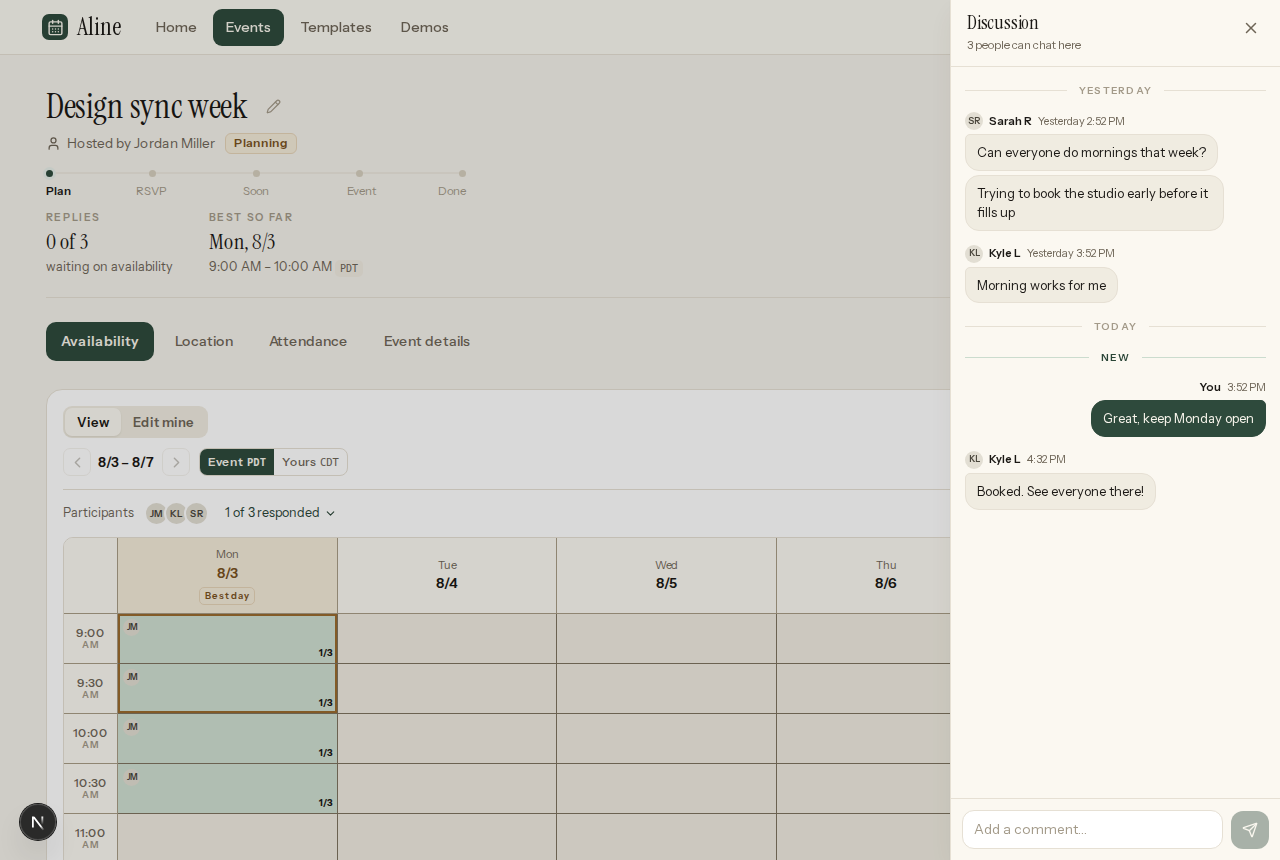
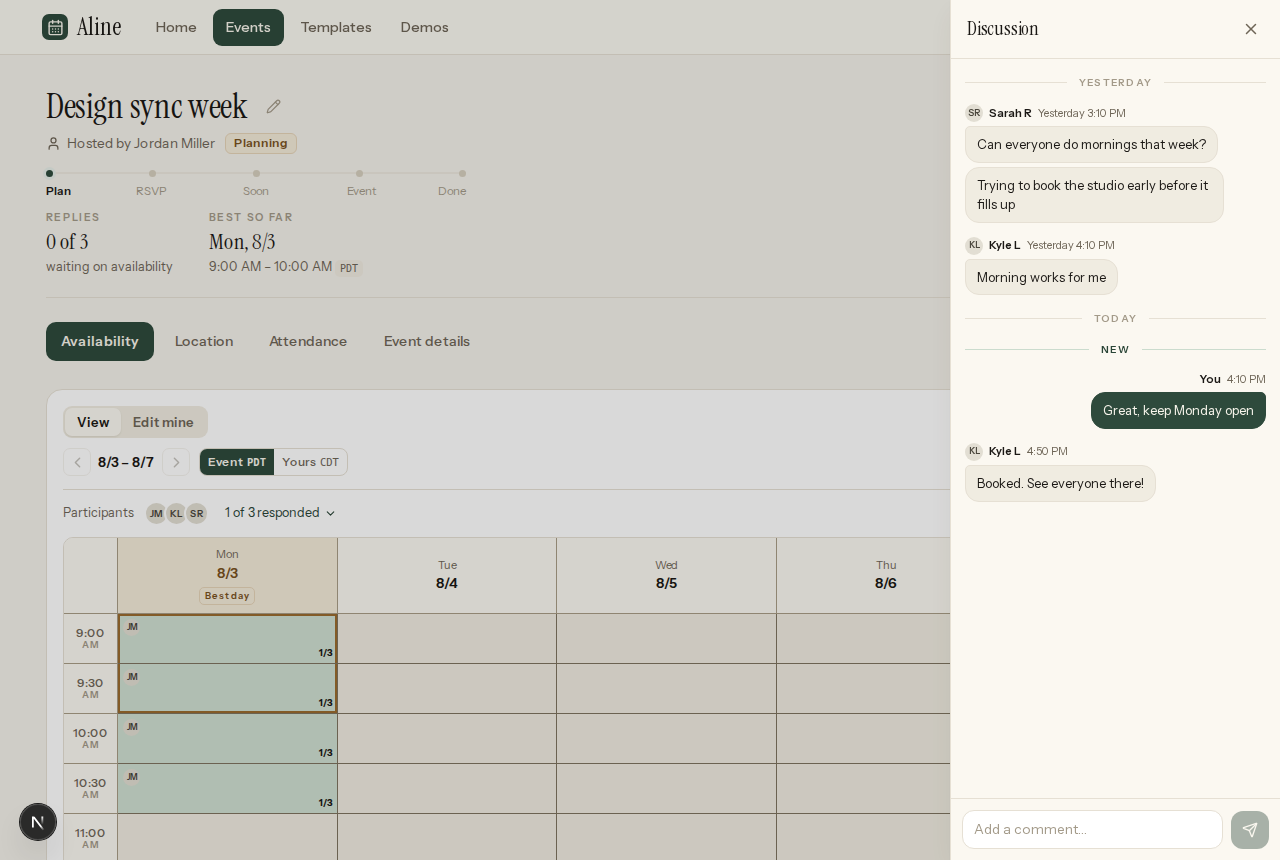
The import preview retires: picking a calendar just fills the grid, a toast counts what landed and offers the way back, and the chat header sheds its headcount caption

diff --git a/src/app/(main)/events/[id]/_components/availability/parts.tsx b/src/app/(main)/events/[id]/_components/availability/parts.tsx
@@ -1,7 +1,7 @@
 'use client'
 
 /* the availability panel's satellite components: people filter (strip + modal),
-   calendar import (menu + preview), clear-times, drag handles, quick fills,
+   calendar import menu, clear-times, drag handles, quick fills,
    the who's-missing popover, the cell breakdown, and small controls */
 import { useEffect, useLayoutEffect, useMemo, useRef, useState } from 'react'
 import { Bell, CalendarPlus, Check, ChevronDown, Eraser, GripHorizontal, Minus, Plus, Search, Users, X, Zap } from 'lucide-react'
@@ -9,10 +9,8 @@ import { gsap } from 'gsap'
 import { useGSAP } from '@gsap/react'
 import { Avatar } from '@/components/ui/Avatar'
 import { Popover, PopoverItem, PopoverSep, PopoverTitle } from '@/components/ui/Popover'
-import { TimezonePill } from '@/components/ui/TimezonePill'
-import type { AppEvent, Iv, Participant } from '@/lib/events'
-import type { DayImport } from '@/lib/calendar-import'
-import { fmtDur, subtract, type Band } from './grid-lib'
+import type { Participant } from '@/lib/events'
+import type { Band } from './grid-lib'
 
 /* ── clickable participant strip: tap a person to filter the grid to their free times.
    Capped at 8 avatars; the +N chip opens a modal with EVERYONE, filtered people marked. ── */
@@ -139,116 +137,6 @@ export function FilterModal({ participants, filter, onToggle, onClear, onSelectA
   )
 }
 
-/* ── import preview: confirm what the calendar import will mark before it lands.
-   Each day is a miniature of the grid window: busy blocks, times already marked,
-   and the stretches the import would add, so the result is visible before it lands. ── */
-export function ImportPreview({ provider, data, mine, days, tz, fmt, gridStartMin, gridMax, onApply, onClose }: {
-  provider: string
-  data: Record<string, DayImport> | null
-  mine: Record<string, Iv[]>
-  days: AppEvent['days']
-  tz: string
-  fmt: (min: number) => string
-  gridStartMin: number
-  gridMax: number
-  onApply: () => void
-  onClose: () => void
-}) {
-  const card = useRef<HTMLDivElement>(null)
-  useGSAP(() => {
-    gsap.fromTo(card.current, { y: 10, opacity: 0 }, { y: 0, opacity: 1, duration: 0.3, ease: 'power3.out' })
-    gsap.from('.ip-row', { y: 6, opacity: 0, duration: 0.25, stagger: 0.035, ease: 'power2.out', delay: 0.08 })
-  }, { scope: card })
-
-  // one pass over the data: what the import would ADD per day (free minus what is
-  // already marked), plus totals — a busy calendar can carry dozens of blocks a day,
-  // so this runs once, not once per row
-  const { addedByDay, anyAdded, totalAdded } = useMemo(() => {
-    const byDay: Record<string, Iv[]> = {}
-    let total = 0
-    for (const d of days) {
-      let added = data?.[d.key]?.free ?? []
-      for (const iv of mine[d.key] ?? []) added = added.flatMap((a) => subtract(a, iv.s, iv.e))
-      byDay[d.key] = added.filter((a) => a.e > a.s)
-      total += byDay[d.key].reduce((m, iv) => m + (iv.e - iv.s), 0)
-    }
-    return { addedByDay: byDay, anyAdded: !!data && total > 0, totalAdded: total }
-  }, [data, mine, days])
-
-  const pct = (m: number) => `${(m / Math.max(gridMax, 1)) * 100}%`
-  const seg = (iv: Iv, i: number, bg: string, title?: string) => (
-    <span key={`${bg}-${i}`} className="absolute inset-y-0" style={{ left: pct(iv.s), width: pct(iv.e - iv.s), background: bg }} title={title} />
-  )
-  const range = (iv: Iv) => `${fmt(gridStartMin + iv.s)} – ${fmt(gridStartMin + iv.e)}`
-
-  return (
-    // viewport overlay, same pattern as the chat drawer: the availability panel runs
-    // far taller than the screen, so an in-panel overlay would center the card (and
-    // its Apply button) somewhere off screen
-    <div className="fixed inset-0 z-50 bg-[rgba(0,0,0,.25)]" onPointerDown={(e) => { if (e.target === e.currentTarget) onClose() }}>
-      <div className="pointer-events-none grid h-full place-items-center p-4">
-        <div ref={card} className="pointer-events-auto flex max-h-full w-full max-w-[480px] flex-col rounded-2xl border border-border bg-s1 shadow-soft">
-        <div className="border-b border-border px-5 py-4">
-          <div className="text-[12px] font-semibold uppercase tracking-[.13em] text-faint">Import preview</div>
-          <div className="mt-1 flex items-center gap-2 text-[15.5px] font-semibold">{provider} <TimezonePill tz={tz} /></div>
-        </div>
-
-        {data ? (
-          <>
-            <div className="scroll-slim min-h-0 flex-1 overflow-auto px-5 py-3.5">
-              <p className="text-[13px] leading-[1.5] text-dim">
-                {anyAdded
-                  ? <>This would add <span className="font-semibold text-text">{fmtDur(totalAdded)}</span> of free time to your grid, shown in event time. Times you already marked stay exactly as they are.</>
-                  : <>Nothing new to add. Your marked times already cover every free stretch on this calendar.</>}
-              </p>
-              <div className="mb-3 mt-2.5 flex flex-wrap items-center gap-x-4 gap-y-1 text-[11.5px] text-dim">
-                <span className="flex items-center gap-1.5"><span className="h-2.5 w-2.5 rounded-[3px]" style={{ background: 'var(--teal)' }} /> Will be added</span>
-                <span className="flex items-center gap-1.5"><span className="h-2.5 w-2.5 rounded-[3px]" style={{ background: 'var(--you-some)' }} /> Already marked</span>
-                <span className="flex items-center gap-1.5"><span className="h-2.5 w-2.5 rounded-[3px] border border-brick-border" style={{ background: 'var(--brick-bg)' }} /> Busy</span>
-              </div>
-              {days.filter((d) => data[d.key]).map((d) => {
-                const di = data[d.key]
-                const added = addedByDay[d.key] ?? []
-                const allBusy = di.free.length === 0
-                const dayAdded = added.reduce((m, iv) => m + (iv.e - iv.s), 0)
-                return (
-                  <div key={d.key} className="ip-row border-t border-border py-2.5 first:border-t-0">
-                    <div className="flex items-center gap-3">
-                      <span className="w-[72px] flex-none text-[12.5px] font-semibold text-dim">{d.dow} {d.date}</span>
-                      <div className="relative h-4 min-w-0 flex-1 overflow-hidden rounded-[5px] border border-border bg-s2">
-                        {di.busy.map((iv, i) => seg(iv, i, 'var(--brick-bg)', `Busy ${range(iv)}`))}
-                        {(mine[d.key] ?? []).map((iv, i) => seg(iv, i, 'var(--you-some)', `Marked ${range(iv)}`))}
-                        {added.map((iv, i) => seg(iv, i, 'var(--teal)', `Adds ${range(iv)}`))}
-                      </div>
-                      <span className={`w-[62px] flex-none text-right text-[12px] font-semibold ${allBusy ? 'text-brick-text' : dayAdded ? 'text-teal-text' : 'text-faint'}`}>
-                        {allBusy ? 'Busy' : dayAdded ? `+${fmtDur(dayAdded)}` : 'Covered'}
-                      </span>
-                    </div>
-                  </div>
-                )
-              })}
-              <p className="mt-2.5 text-[12px] leading-[1.5] text-faint">Simulated calendar for now. Provider sign-in arrives with calendar sync.</p>
-            </div>
-            <div className="flex items-center justify-end gap-2 border-t border-border px-5 py-3.5">
-              {!anyAdded && <span className="mr-auto text-[12.5px] text-faint">Nothing new to add — you&apos;ve already covered these times.</span>}
-              <button onClick={onClose} className="flex h-9 items-center rounded-[9px] border border-border2 bg-s1 px-3.5 text-[13.5px] font-semibold hover:bg-s2">{anyAdded ? 'Cancel' : 'Close'}</button>
-              {anyAdded && <button onClick={onApply} className="flex h-9 items-center gap-1.5 rounded-[9px] bg-accent px-3.5 text-[13.5px] font-semibold text-on-accent"><Check size={15} /> Add these times</button>}
-            </div>
-          </>
-        ) : (
-          <>
-            <p className="px-5 py-4 text-[13.5px] leading-[1.55] text-dim">Calendar import isn&apos;t available for this sample event. Create an event of your own to try it.</p>
-            <div className="flex items-center justify-end border-t border-border px-5 py-3.5">
-              <button onClick={onClose} className="flex h-9 items-center rounded-[9px] border border-border2 bg-s1 px-3.5 text-[13.5px] font-semibold hover:bg-s2">Close</button>
-            </div>
-          </>
-        )}
-        </div>
-      </div>
-    </div>
-  )
-}
-
 /* ── import from calendar (availability stage): connect a provider and auto-fill busy times ── */
 export function ImportFromCalendar({ onPick }: { onPick: (provider: string) => void }) {
   return (
@@ -263,7 +151,7 @@ export function ImportFromCalendar({ onPick }: { onPick: (provider: string) => v
     >
       {(close) => (
         <>
-          {/* the import previews before saving anyway — the title is all the context needed */}
+          {/* applies instantly; the toast afterward says what landed and offers Undo */}
           <PopoverTitle>Fills your free times</PopoverTitle>
           {(['Google Calendar', 'Outlook'] as const).map((name) => (
             <PopoverItem key={name} onClick={() => { close(); onPick(name) }} icon={<CalendarPlus size={15} className="text-accent-text" />}>

diff --git a/src/app/(main)/events/[id]/_components/AvailabilityPanel.tsx b/src/app/(main)/events/[id]/_components/AvailabilityPanel.tsx
@@ -7,7 +7,7 @@ import { AvatarRow } from '@/components/ui/AvatarRow'
 import { TimezonePill, tzAbbr } from '@/components/ui/TimezonePill'
 import { SegmentedControl } from '@/components/ui/SegmentedControl'
 import { Popover } from '@/components/ui/Popover'
-import { CellDetail, ClearTimes, EdgeHandle, EdgeNudge, FilterAvatars, IconBtn, ImportFromCalendar, ImportPreview, MissingPopover, PresetFills, Segment } from './availability/parts'
+import { CellDetail, ClearTimes, EdgeHandle, EdgeNudge, FilterAvatars, IconBtn, ImportFromCalendar, MissingPopover, PresetFills, Segment } from './availability/parts'
 import { cellBands, clayFor, fmtDur, heat, mergeSlivers, padToWeeks, peakOf, subtract, type Band, type GDay } from './availability/grid-lib'
 import { prefH24 } from '@/lib/prefs'
 import {
@@ -118,8 +118,6 @@ export function AvailabilityPanel({ event, locked = false, initialFilter = null,
   const [scrollTop, setScrollTop] = useState(0)
   const [viewportH, setViewportH] = useState(460)
   const [viewportW, setViewportW] = useState(0)
-  // provider picked → preview of what would be imported (null data = unavailable for this event)
-  const [importing, setImporting] = useState<{ provider: string; data: Record<string, DayImport> | null } | null>(null)
 
   const WEEK = 7
   const paddedDays = useMemo<GDay[]>(() => padToWeeks(event.days), [event.days])
@@ -516,11 +514,12 @@ export function AvailabilityPanel({ event, locked = false, initialFilter = null,
   }
 
   // bulk changes (clear, calendar import) are instant with an undo window instead
-  // of a scary confirm — the old times sit in state until the toast expires
-  const [undo, setUndo] = useState<{ times: Record<string, Iv[]>; label: string } | null>(null)
+  // of a scary confirm — the old times sit in state until the toast expires.
+  // times: null makes it a plain notice with no Undo button
+  const [undo, setUndo] = useState<{ times: Record<string, Iv[]> | null; label: string } | null>(null)
   const undoTimer = useRef<ReturnType<typeof setTimeout> | null>(null)
   useEffect(() => () => { if (undoTimer.current) clearTimeout(undoTimer.current) }, [])
-  function stashUndo(times: Record<string, Iv[]>, label: string) {
+  function stashUndo(times: Record<string, Iv[]> | null, label: string) {
     setUndo({ times, label })
     if (undoTimer.current) clearTimeout(undoTimer.current)
     undoTimer.current = setTimeout(() => setUndo(null), 8000)
@@ -533,26 +532,39 @@ export function AvailabilityPanel({ event, locked = false, initialFilter = null,
     stashUndo(snapshot, 'Your times were cleared')
   }
   function undoRestore() {
-    if (!undo) return
-    setMine(undo.times); persist(undo.times)
+    const times = undo?.times
+    if (!times) return
+    setMine(times); persist(times)
     setUndo(null)
     if (undoTimer.current) clearTimeout(undoTimer.current)
   }
 
-  // calendar import: fetch busy as UTC instants, convert to event-tz grid minutes, preview, apply
+  // calendar import: fetch busy as UTC instants, convert to event-tz grid minutes, and
+  // apply in one step. No preview modal — the action is additive-only and the grid
+  // shows the result right away, so the toast (what landed, Undo) is confirmation enough.
   function startImport(provider: string) {
-    if (!event.days.every((d) => ISO_DAY.test(d.key))) { setImporting({ provider, data: null }); return }
-    setImporting({ provider, data: buildImportPreview(mockBusyUtc(event.days), event.days, gridStartMin, gridMax, event.timezone) })
-  }
-  function applyImport() {
-    if (!importing?.data) return
+    if (!event.days.every((d) => ISO_DAY.test(d.key))) {
+      stashUndo(null, 'Calendar import works on events you create, not this sample.')
+      return
+    }
+    const data = buildImportPreview(mockBusyUtc(event.days), event.days, gridStartMin, gridMax, event.timezone)
     const snapshot = mineRef.current
     const next = { ...snapshot }
-    // merge, never remove: imported free times join whatever is already marked
-    for (const [day, di] of Object.entries(importing.data)) next[day] = normalizeIv([...(next[day] ?? []), ...di.free])
-    setMine(next); persist(next)
-    setSel(null); setImporting(null); setMode('edit')
-    stashUndo(snapshot, 'Calendar times added')
+    // merge, never remove: imported free times join whatever is already marked.
+    // `addedMin` counts only genuinely new minutes (free minus what's already there)
+    let addedMin = 0
+    for (const [day, di] of Object.entries(data)) {
+      let add = di.free
+      for (const iv of snapshot[day] ?? []) add = add.flatMap((a) => subtract(a, iv.s, iv.e))
+      addedMin += add.reduce((m, iv) => m + (iv.e - iv.s), 0)
+      next[day] = normalizeIv([...(next[day] ?? []), ...di.free])
+    }
+    if (addedMin === 0) {
+      stashUndo(null, `Nothing new to add from ${provider}`)
+      return
+    }
+    setMine(next); persist(next); setSel(null)
+    stashUndo(snapshot, `Added ${fmtDur(addedMin)} of free time from ${provider}`)
   }
 
   // Scalability: cell rendering must not be O(cells × people). Build each day's combined
@@ -1365,29 +1377,17 @@ export function AvailabilityPanel({ event, locked = false, initialFilter = null,
       {/* undo toast — floats above the mobile tab bar, gone after 8s */}
       {undo && (
         <div className="pointer-events-none fixed inset-x-0 bottom-[84px] z-50 flex justify-center px-4 md:bottom-6">
-          <div className="pointer-events-auto flex items-center gap-2.5 rounded-full border border-border bg-s1 py-1.5 pl-4 pr-1.5 text-[13px] shadow-soft">
+          <div className={`pointer-events-auto flex items-center gap-2.5 rounded-full border border-border bg-s1 py-1.5 pl-4 text-[13px] shadow-soft ${undo.times ? 'pr-1.5' : 'pr-4'}`}>
             {undo.label}
-            <button type="button" onClick={undoRestore} className="flex h-8 items-center rounded-full bg-accent px-3.5 text-[13px] font-semibold text-on-accent">
-              Undo
-            </button>
+            {undo.times && (
+              <button type="button" onClick={undoRestore} className="flex h-8 items-center rounded-full bg-accent px-3.5 text-[13px] font-semibold text-on-accent">
+                Undo
+              </button>
+            )}
           </div>
         </div>
       )}
 
-      {importing && (
-        <ImportPreview
-          provider={importing.provider}
-          data={importing.data}
-          mine={mine}
-          days={event.days}
-          tz={event.timezone}
-          fmt={fmt}
-          gridStartMin={gridStartMin}
-          gridMax={gridMax}
-          onApply={applyImport}
-          onClose={() => setImporting(null)}
-        />
-      )}
 
       {/* corner grip: drag to stretch the grid toward showing every row at once.
           Wears the same diagonal mark as a resizable textarea. Desktop only —

diff --git a/src/app/(main)/events/[id]/_components/ChatDrawer.tsx b/src/app/(main)/events/[id]/_components/ChatDrawer.tsx
@@ -105,7 +105,7 @@ export function ChatDrawer({ event, messages, unreadFrom, onSend, onClose }: {
     const p = pById.get(id)
     return { initials: p?.initials ?? id, name: p?.name ?? id, color: p?.color ?? ('gray' as Participant['color']) }
   }
-  const body = <ChatBody members={event.participants.length} messages={messages} unreadFrom={unreadFrom} onSend={onSend} onClose={close} avatarOf={avatarOf} />
+  const body = <ChatBody messages={messages} unreadFrom={unreadFrom} onSend={onSend} onClose={close} avatarOf={avatarOf} />
 
   return (
     <div ref={root} className="fixed inset-0 z-50" role="dialog" aria-modal="true" aria-label="Event discussion">
@@ -137,7 +137,7 @@ export function ChatDrawer({ event, messages, unreadFrom, onSend, onClose }: {
 }
 
 type ChatProps = {
-  members: number; messages: ChatMessage[]; unreadFrom?: number
+  messages: ChatMessage[]; unreadFrom?: number
   onSend: (t: string) => void; onClose: () => void
   avatarOf: (id: string) => { initials: string; name: string; color: Participant['color'] }
 }
@@ -148,7 +148,7 @@ type Row =
   | { kind: 'msg'; m: ChatMessage; key: string; first: boolean } // first: opens a sender run, so it wears the header
 
 // header + messages + composer, shared by the drawer and the sheet
-function ChatBody({ members, messages, unreadFrom, onSend, onClose, avatarOf }: ChatProps) {
+function ChatBody({ messages, unreadFrom, onSend, onClose, avatarOf }: ChatProps) {
   const zone = useRef<HTMLDivElement>(null)
   const scroller = useRef<HTMLDivElement>(null)
   const ta = useRef<HTMLTextAreaElement>(null)
@@ -238,11 +238,8 @@ function ChatBody({ members, messages, unreadFrom, onSend, onClose, avatarOf }: 
 
   return (
     <div ref={zone} className="flex h-full min-h-0 w-full flex-col">
-      <div className="flex flex-none items-start justify-between border-b border-border px-4 pb-3 pt-[11px]">
-        <div>
-          <div className="font-serif text-[19px] leading-tight tracking-[-0.01em]">Discussion</div>
-          <div className="mt-0.5 text-[11.5px] text-dim">{members} {members === 1 ? 'person' : 'people'} can chat here</div>
-        </div>
+      <div className="flex flex-none items-center justify-between border-b border-border px-4 py-3">
+        <div className="font-serif text-[19px] leading-tight tracking-[-0.01em]">Discussion</div>
         <button onClick={onClose} aria-label="Close chat" className="-mr-1 grid h-[34px] w-[34px] place-items-center rounded-lg text-dim hover:text-text"><X size={18} /></button>
       </div>
 

diff --git a/README.md b/README.md
@@ -7,7 +7,7 @@ Aline is an event coordination app, built as a modern replacement for when2meet.
 ## What it does
 
 - **Availability grid** — mark when you're free by dragging, with minute-precise edge handles, quick fills, and a live heat map of the whole group. Day polls handle trips and multi-day plans.
-- **Calendar import** — pull free time straight from Google Calendar or Outlook (simulated for now), preview what it would add per day, apply in one tap, undo in one more.
+- **Calendar import** — pull free time straight from Google Calendar or Outlook (simulated for now). One tap fills your grid, a toast says how much landed, and Undo takes it right back.
 - **Location voting and itineraries** — suggest places on a map, run a ballot, or chain stops into a routed itinerary with travel-time estimates.
 - **Attendance** — see who can make the locked-in plan, who arrives late or leaves early, and where the headcount peaks across stops.
 - **Event chat** — a discussion drawer on every event, with unread tracking and read-marks per browser.
@@ -19,7 +19,7 @@ Aline is an event coordination app, built as a modern replacement for when2meet.
 | | |
 |---|---|
 | ![Home](docs/screenshots/home-light.png) Home, with the next event up front | ![Location](docs/screenshots/location-light.png) Location tab: map, ballot, itinerary |
-| ![Chat](docs/screenshots/chat-light.png) The discussion drawer | ![Calendar import](docs/screenshots/import-light.png) Calendar import preview |
+| ![Chat](docs/screenshots/chat-light.png) The discussion drawer | ![Calendar import](docs/screenshots/import-light.png) Calendar import, one tap with undo |
 | ![Dark theme](docs/screenshots/availability-dark.png) The same grid in dark | ![Mobile](docs/screenshots/home-mobile.png) On a phone |
 
 ## How it's built
